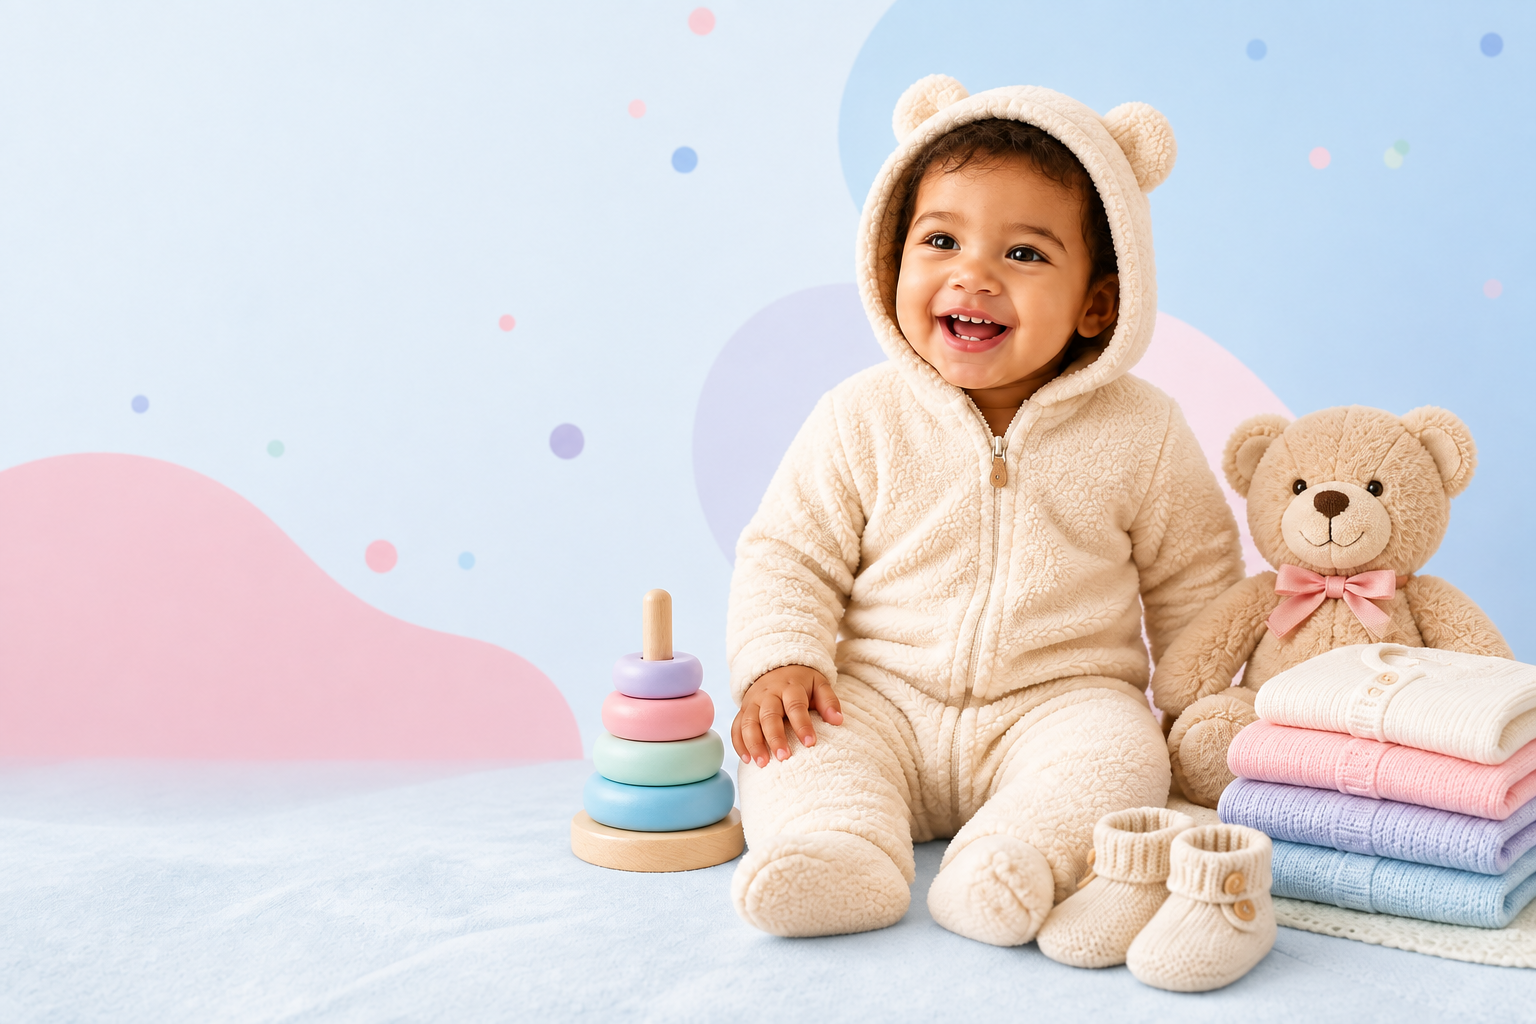
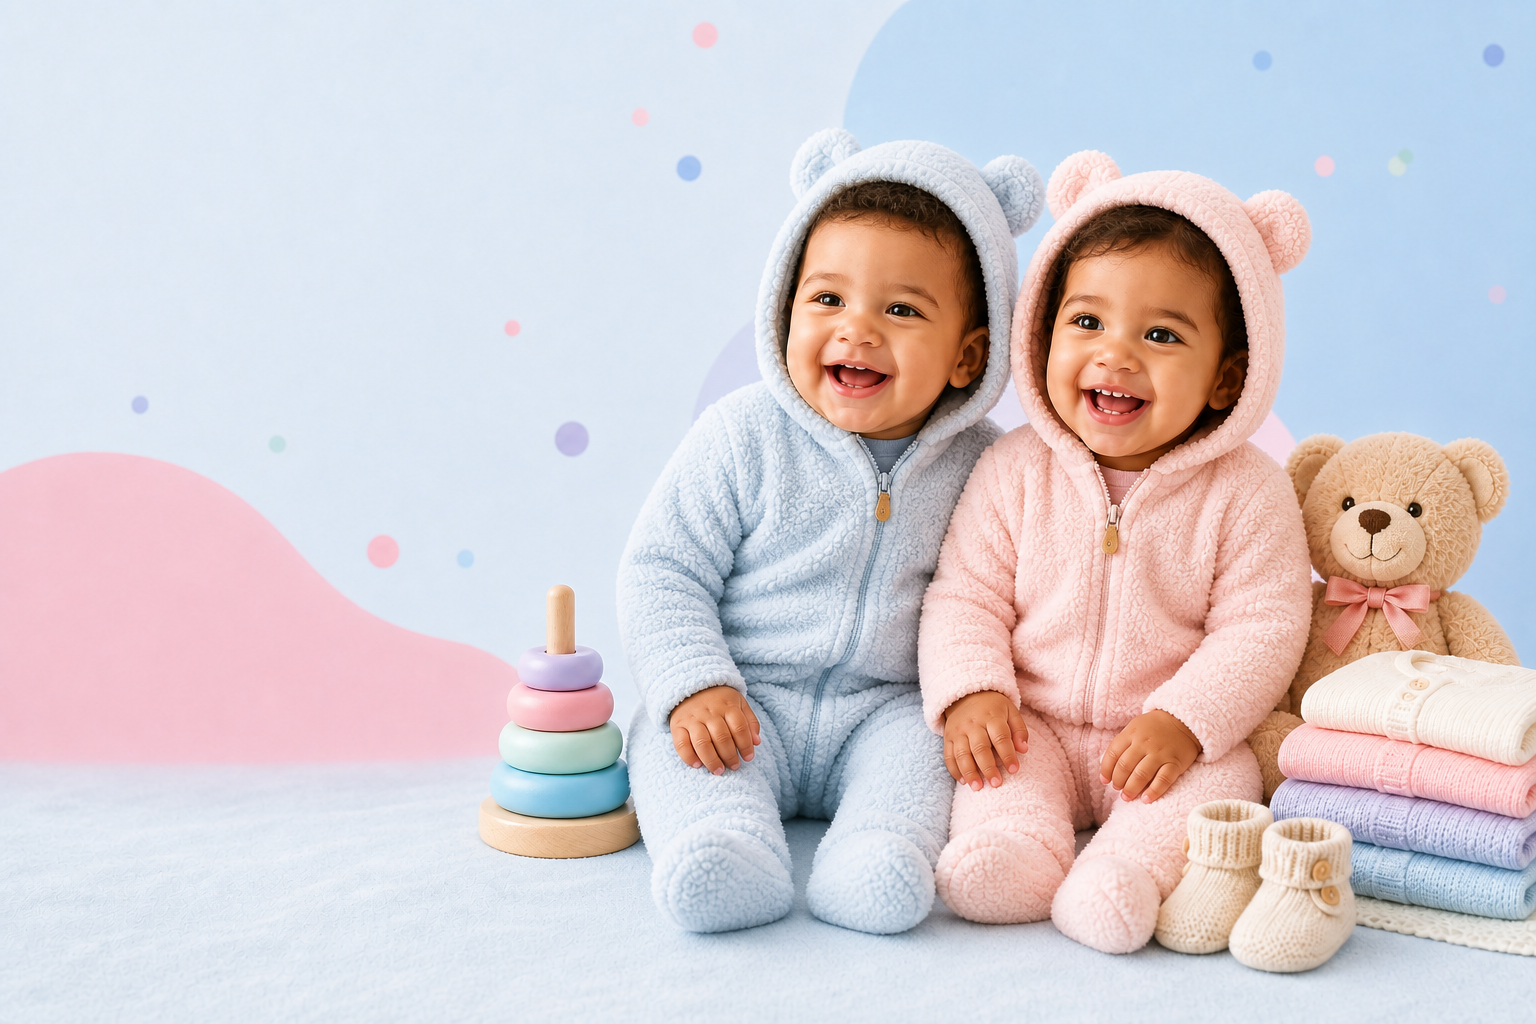
Feature baby boy and girl in hero

diff --git a/app/globals.css b/app/globals.css
@@ -32,9 +32,6 @@ main { width: 100%; overflow: hidden; }
 .brand i { color: var(--coral); font-style: normal; }
 .brand-mark { width: 39px; height: 39px; display: grid; place-items: center; color: var(--coral-dark); background: linear-gradient(135deg, var(--blue), var(--peach)); border-radius: 50% 50% 46% 54%; transform: rotate(-5deg); }
 .brand-mark svg { transform: rotate(5deg); }
-.brand-kids { margin-left: 1px; display: inline-flex; align-items: flex-end; gap: 1px; font-size: 18px; letter-spacing: 0; }
-.brand-kids span:first-child { animation: kid-bob 3s ease-in-out infinite; }
-.brand-kids span:last-child { animation: kid-bob 3s .45s ease-in-out infinite; }
 .desktop-nav { display: flex; align-items: center; gap: clamp(22px, 3vw, 42px); font-size: 14px; font-weight: 700; }
 .desktop-nav a { padding: 31px 0 27px; position: relative; transition: color .2s ease; }
 .desktop-nav a:hover, .desktop-nav a.active { color: var(--coral); }
@@ -63,8 +60,10 @@ h1, h2, h3, p { margin-top: 0; }
 .hero-actions { display: flex; align-items: center; gap: 25px; }
 .button { min-height: 52px; padding: 0 23px; display: inline-flex; align-items: center; justify-content: center; gap: 10px; border-radius: 28px; font-size: 14px; font-weight: 900; transition: transform .2s ease, box-shadow .2s ease, background .2s ease; }
 .button:hover { transform: translateY(-2px); }
-.button-primary { color: white; background: linear-gradient(135deg, #ff75b4, #ee5a9e); box-shadow: 0 10px 24px rgba(232,78,146,.28); }
+.button-primary { position: relative; color: white; background: linear-gradient(135deg, #ff75b4, #ee5a9e); box-shadow: 0 10px 24px rgba(232,78,146,.28); animation: cta-breathe 3.2s ease-in-out infinite; }
 .button-primary:hover { background: var(--coral-dark); }
+.button-sparkle { animation: cta-twinkle 2.4s ease-in-out infinite; }
+.button-arrow { animation: arrow-nudge 1.8s ease-in-out infinite; }
 .text-link { display: inline-flex; align-items: center; gap: 4px; color: var(--coral-dark); font-size: 14px; font-weight: 900; }
 
 .benefits { min-height: 106px; padding: 22px clamp(22px, 7vw, 112px); display: grid; grid-template-columns: repeat(4, 1fr); gap: 20px; align-items: center; background: linear-gradient(90deg, #ffffff, #f1f9ff 52%, #fff2f8); border-bottom: 1px solid var(--line); }
@@ -163,9 +162,17 @@ footer small { grid-column: 1 / -1; padding-top: 24px; color: #99a29e; border-to
   35% { transform: translate3d(-8px, -9px, 0) rotate(7deg); }
   70% { transform: translate3d(5px, -4px, 0) rotate(-2deg); }
 }
-@keyframes kid-bob {
-  0%, 100% { transform: translateY(0) rotate(0); }
-  50% { transform: translateY(-3px) rotate(4deg); }
+@keyframes cta-breathe {
+  0%, 100% { box-shadow: 0 10px 24px rgba(232,78,146,.26); }
+  50% { box-shadow: 0 13px 30px rgba(232,78,146,.4); }
+}
+@keyframes cta-twinkle {
+  0%, 100% { transform: scale(.9) rotate(-8deg); opacity: .8; }
+  50% { transform: scale(1.13) rotate(8deg); opacity: 1; }
+}
+@keyframes arrow-nudge {
+  0%, 100% { transform: translateX(0); }
+  50% { transform: translateX(4px); }
 }
 @keyframes category-float {
   0%, 100% { transform: translateY(0) rotate(4deg); }
@@ -206,7 +213,6 @@ footer small { grid-column: 1 / -1; padding-top: 24px; color: #99a29e; border-to
   .brand { font-size: 23px; }
   .brand-mark { width: 35px; height: 35px; }
   .brand-mark svg { width: 21px; }
-  .brand-kids { font-size: 15px; }
   .bag-button { min-width: 58px; padding: 0 8px; gap: 5px; box-shadow: none; background: transparent; }
   .mobile-nav { top: 64px; }
   .hero { min-height: auto; flex-direction: column; align-items: stretch; background: #fff2f8; }

diff --git a/app/page.tsx b/app/page.tsx
@@ -67,7 +67,6 @@ export default function Home() {
         <a className="brand" href="#top" aria-label="Little's home">
           <span className="brand-mark"><Baby size={25} aria-hidden="true" /></span>
           <span>Little&apos;s<i>.</i></span>
-          <span className="brand-kids" aria-hidden="true"><span>👦</span><span>👧</span></span>
         </a>
 
         <nav className="desktop-nav" aria-label="Main navigation">
@@ -102,7 +101,7 @@ export default function Home() {
 
       <section className="hero" id="top">
         <div className="hero-visual">
-          <Image className="hero-image" src="/littles-hero.png" alt="A smiling toddler with a teddy bear, wooden toy and soft baby clothes" fill priority sizes="100vw" />
+          <Image className="hero-image" src="/littles-hero.png" alt="A smiling baby boy and baby girl with a teddy bear, wooden toy and soft baby clothes" fill priority sizes="100vw" />
           <div className="hero-overlay" />
           <span className="hero-floater hero-plane" aria-hidden="true"><Plane size={25} /></span>
           <span className="hero-floater hero-butterfly" aria-hidden="true">🦋</span>
@@ -112,7 +111,7 @@ export default function Home() {
           <h1>Big love for<br className="desktop-break" /><em>little moments.</em></h1>
           <p>Soft essentials and playful finds for their happiest little days.</p>
           <div className="hero-actions">
-            <a className="button button-primary" href="#new">Shop new arrivals <ArrowRight size={18} /></a>
+            <a className="button button-primary" href="#new"><Sparkles className="button-sparkle" size={17} aria-hidden="true" /> Shop new arrivals <ArrowRight className="button-arrow" size={18} aria-hidden="true" /></a>
             <a className="text-link" href="#categories">Explore all <ChevronRight size={17} /></a>
           </div>
         </div>

diff --git a/app/layout.tsx b/app/layout.tsx
@@ -13,7 +13,7 @@ export const metadata: Metadata = {
     description: "Baby clothing, diapering, skincare, feeding, toys, grooming, and nursery essentials for happy little days.",
     url: "/",
     siteName: "Little's",
-    images: [{ url: "/littles-hero.png", width: 1536, height: 1024, alt: "Little's baby boutique collection" }],
+    images: [{ url: "/littles-hero.png", width: 1536, height: 1024, alt: "Little's baby boy and baby girl boutique collection" }],
   },
   twitter: { card: "summary_large_image", title: "Little's | Big Love for Little Moments", description: "Beautiful little essentials for life's biggest love.", images: ["/littles-hero.png"] },
 };
